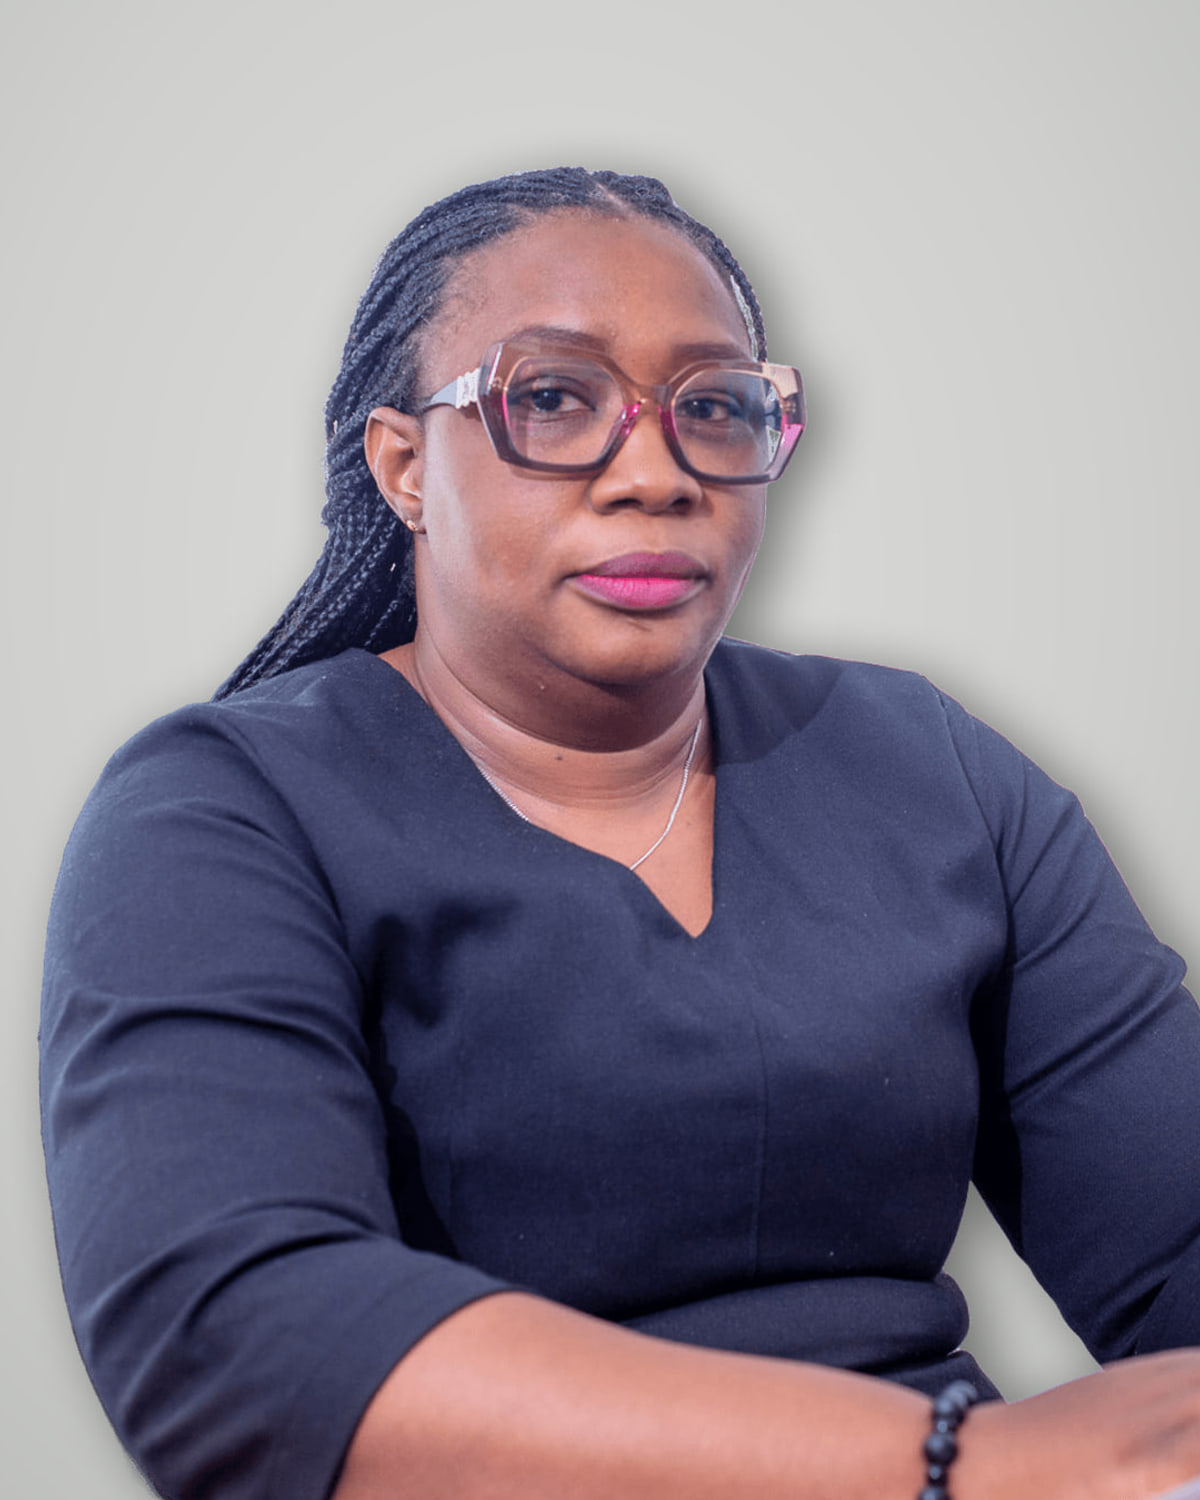
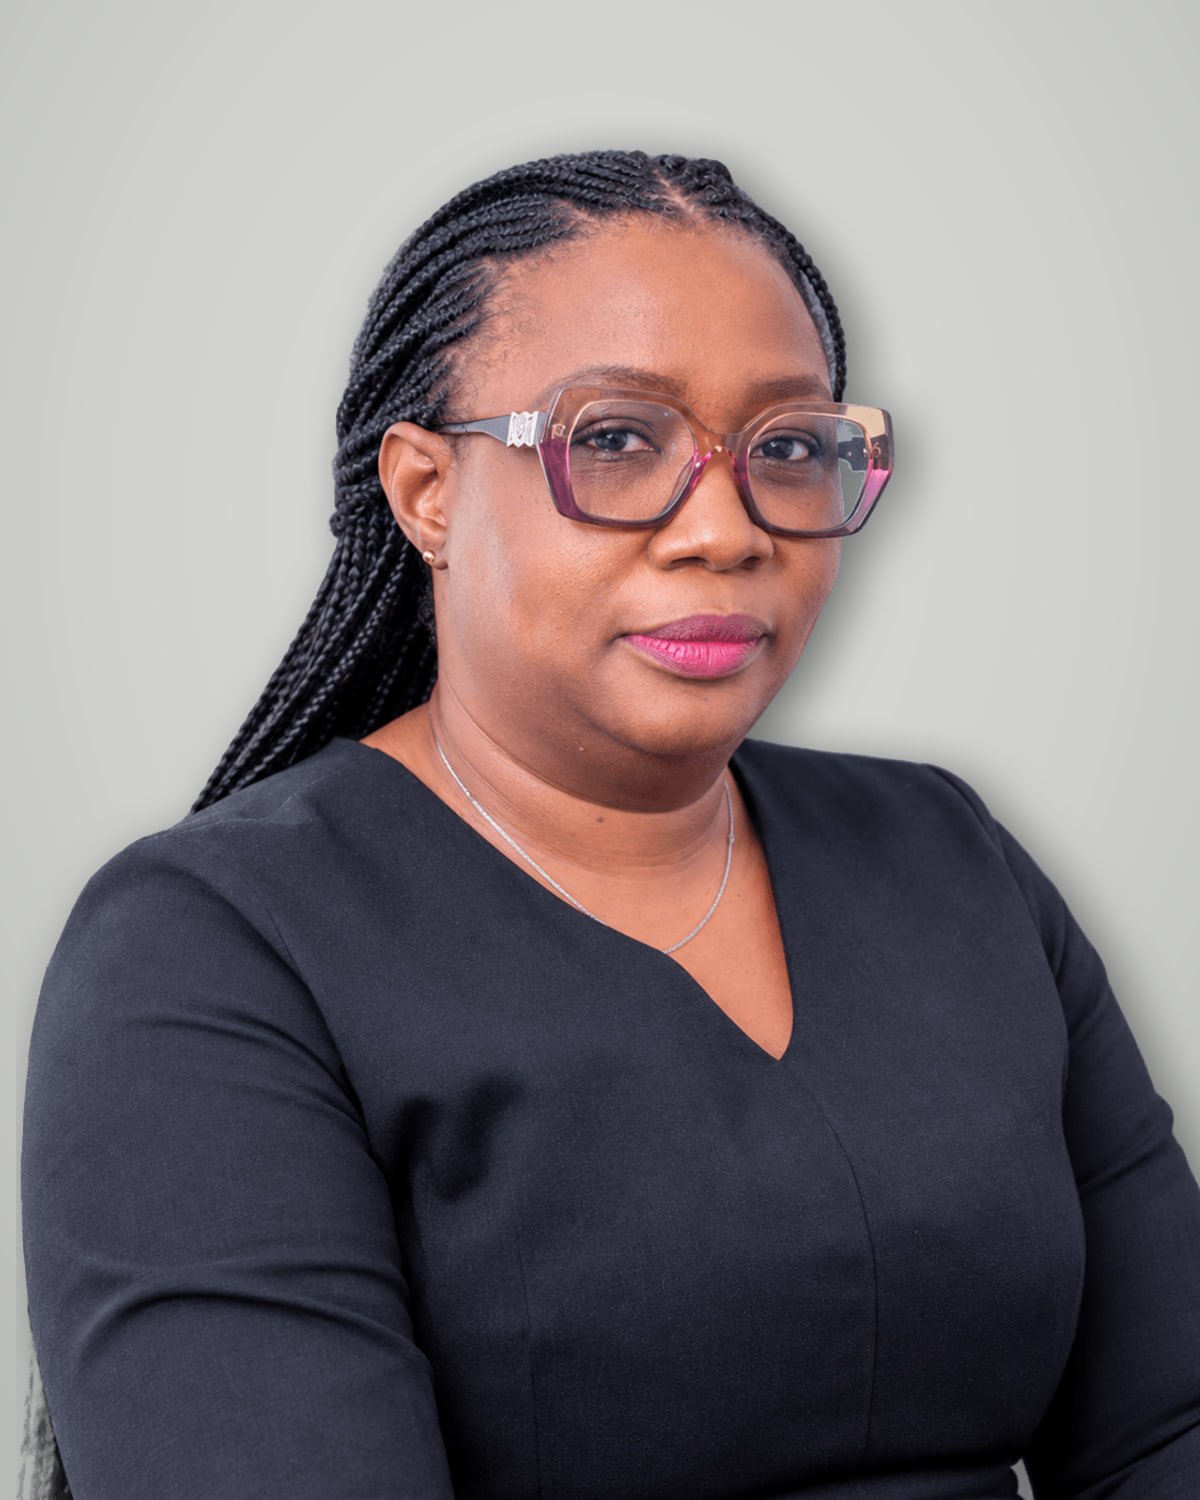
Update international meeting photos and three lawyer portraits
TAG Alliances photo now comes from the new PNG; both meeting photos get
versioned filenames so cached copies are not served. Seed portraits for
Tryphene Egoume, Queenta Asibong and Mirabel Toko refreshed.

diff --git a/app/[locale]/firm/page.tsx b/app/[locale]/firm/page.tsx
@@ -114,13 +114,13 @@ export default async function FirmPage({ params }: Props) {
         <div className="shell grid gap-6 md:grid-cols-12">
           <figure className="md:col-span-7">
             <div className="relative aspect-[4/3] overflow-hidden rounded-[1.5rem]">
-              <Image src="/images/africa-regional-meeting.jpg" alt={dict.home.africaCaption} fill quality={80} sizes="(min-width: 768px) 55vw, 100vw" className="object-cover" />
+              <Image src="/images/africa-regional-meeting-v2.jpg" alt={dict.home.africaCaption} fill quality={80} sizes="(min-width: 768px) 55vw, 100vw" className="object-cover" />
             </div>
             <figcaption className="mt-3 text-[0.8125rem] text-slate">{dict.home.africaCaption}</figcaption>
           </figure>
           <figure className="md:col-span-5 md:self-end">
             <div className="relative aspect-[4/3] overflow-hidden rounded-[1.5rem]">
-              <Image src="/images/tag-alliances-meeting.jpg" alt={dict.home.tagCaption} fill quality={80} sizes="(min-width: 768px) 38vw, 100vw" className="object-cover" />
+              <Image src="/images/tag-alliances-meeting-v2.jpg" alt={dict.home.tagCaption} fill quality={80} sizes="(min-width: 768px) 38vw, 100vw" className="object-cover" />
             </div>
             <figcaption className="mt-3 text-[0.8125rem] text-slate">{dict.home.tagCaption}</figcaption>
           </figure>

diff --git a/app/[locale]/page.tsx b/app/[locale]/page.tsx
@@ -169,7 +169,7 @@ export default async function HomePage({ params }: Props) {
             </div>
             <div className="absolute -bottom-8 right-6 hidden w-48 overflow-hidden rounded-[1.5rem] border-[6px] border-white shadow-xl sm:block">
               <div className="relative aspect-[4/3]">
-                <Image src="/images/tag-alliances-meeting.jpg" alt={t.tagCaption} fill sizes="200px" className="object-cover" />
+                <Image src="/images/tag-alliances-meeting-v2.jpg" alt={t.tagCaption} fill sizes="200px" className="object-cover" />
               </div>
             </div>
           </div>
@@ -273,7 +273,7 @@ export default async function HomePage({ params }: Props) {
       {/* Why choose us */}
       <section className="relative overflow-hidden bg-charcoal text-white">
         <div className="absolute inset-y-0 right-0 hidden w-[45%] lg:block">
-          <Image src="/images/africa-regional-meeting.jpg" alt={t.africaCaption} fill sizes="45vw" className="object-cover" />
+          <Image src="/images/africa-regional-meeting-v2.jpg" alt={t.africaCaption} fill sizes="45vw" className="object-cover" />
           <div aria-hidden className="absolute inset-0 bg-gradient-to-r from-charcoal via-charcoal/40 to-transparent" />
         </div>
         <div className="shell relative py-24 md:py-32">
